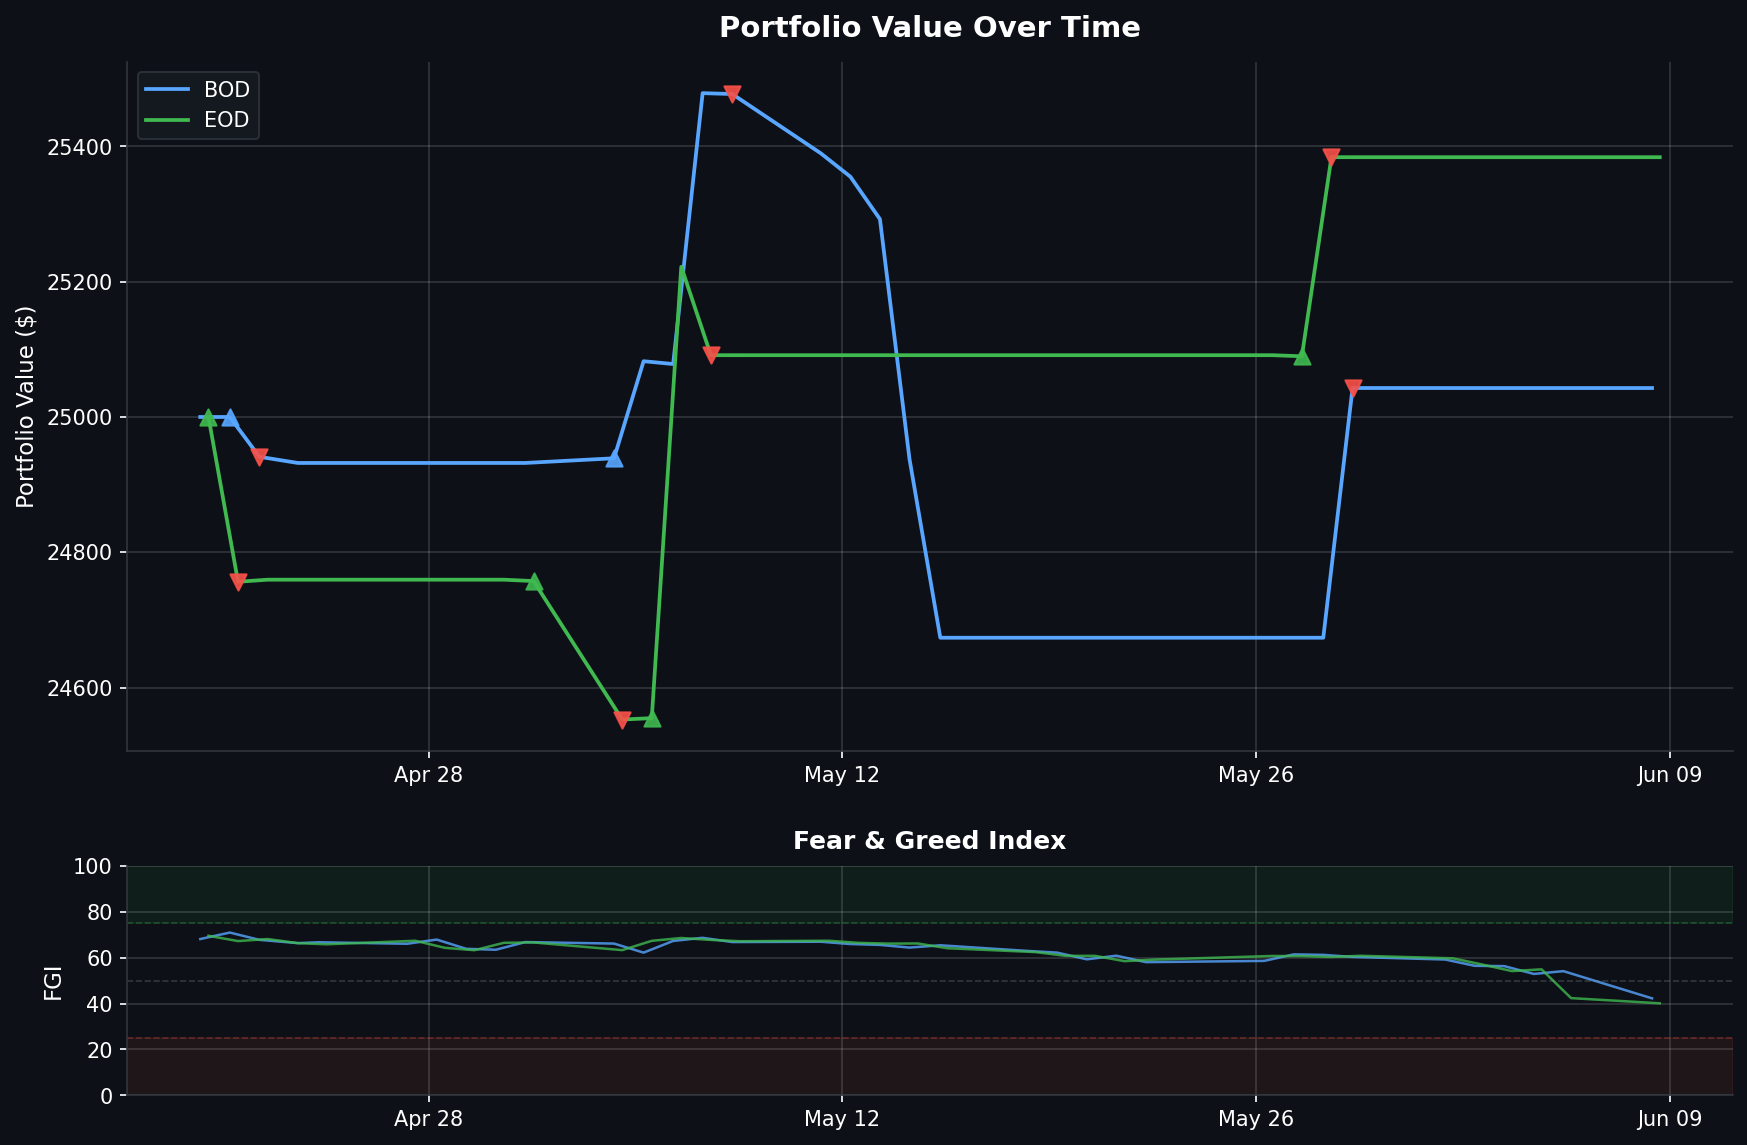
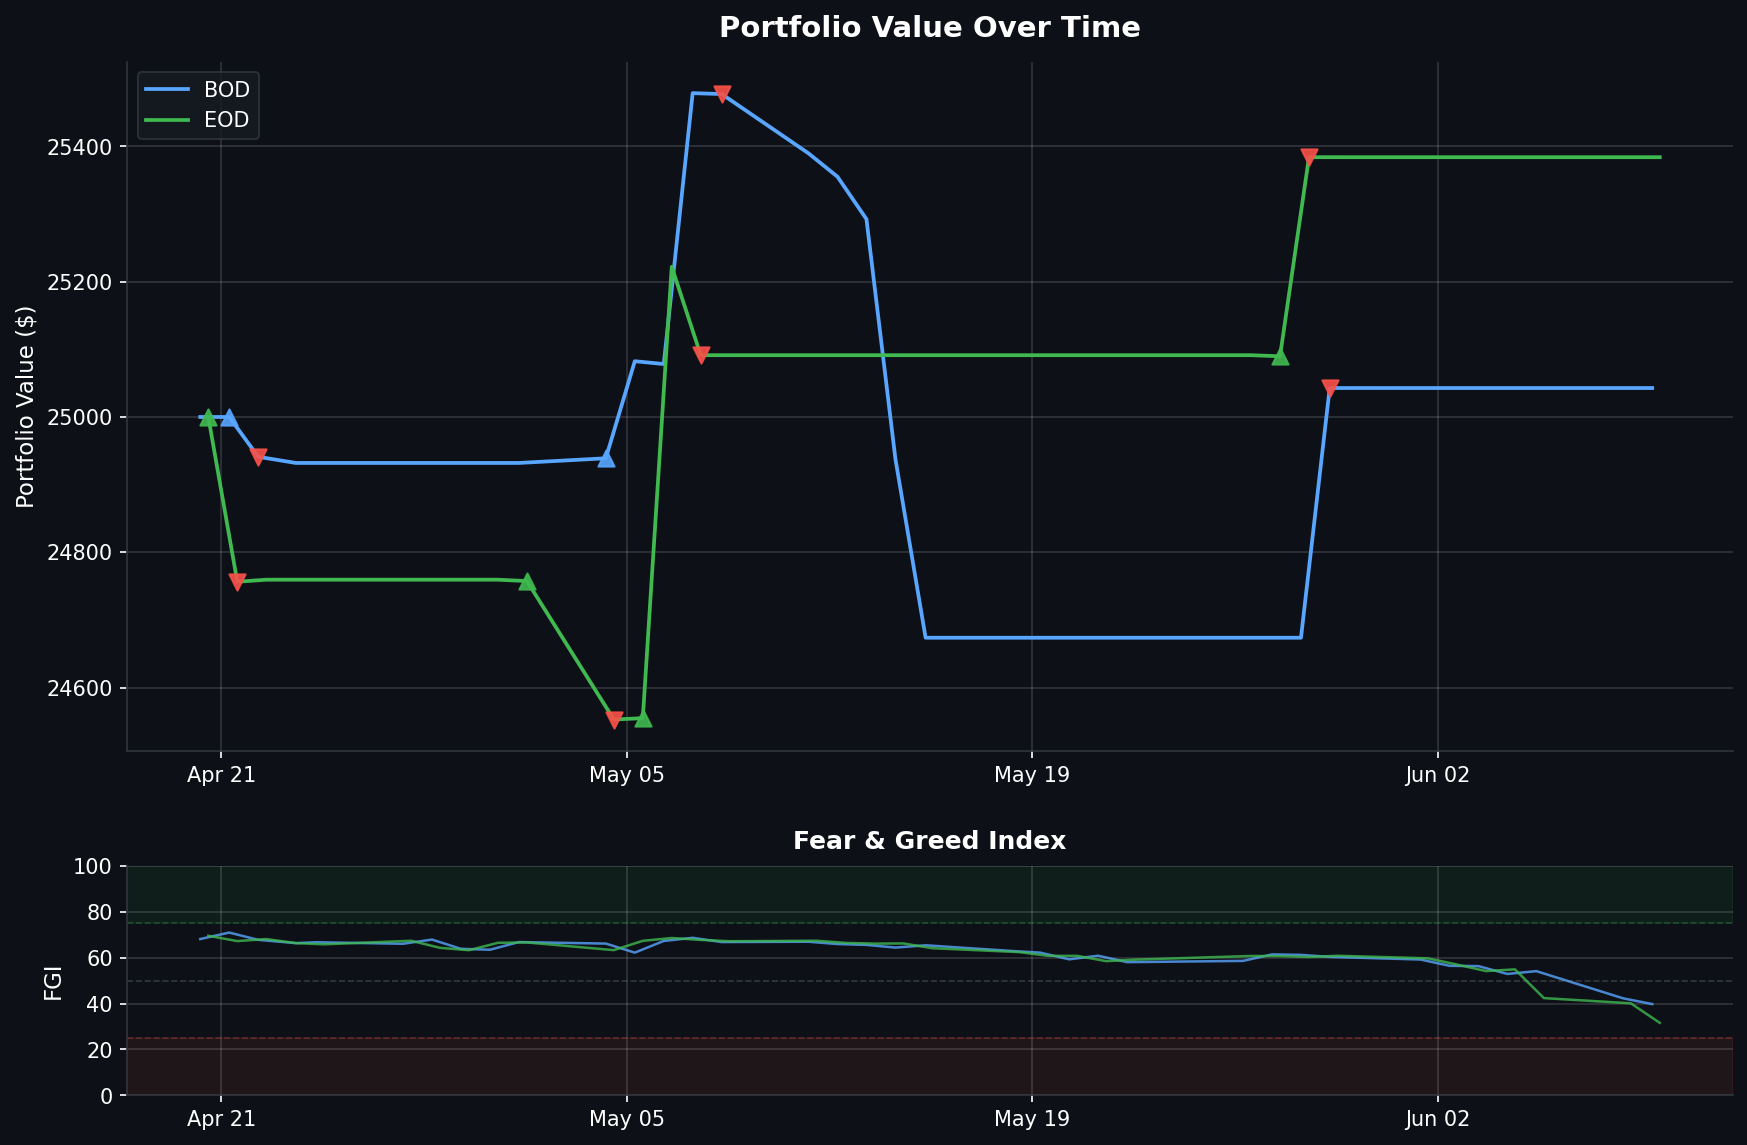
Daily data backup 2026-06-09

diff --git a/README.md b/README.md
@@ -1,6 +1,6 @@
 # Fear & Greed Index Trading Bot
 
-> Dashboard auto-updated daily at market close | Last update: **2026-06-08 13:30 PST**
+> Dashboard auto-updated daily at market close | Last update: **2026-06-09 13:30 PST**
 
 ![Portfolio Performance](assets/portfolio_chart.png)
 
@@ -12,12 +12,12 @@
 |--------|-------|
 | Portfolio Value | **$25,042.81** |
 | Buying Power | $100,171.24 |
-| Current FGI | 42.26 |
+| Current FGI | 39.77 |
 | Position | FLAT |
 | Total P&L | **$+995** |
 | Win Rate | 50% (1W / 1L) |
 | Total Round Trips | 2 |
-| Last Signal | NO_ACTION @ 2026-06-08 09:35 |
+| Last Signal | NO_ACTION @ 2026-06-09 09:35 |
 
 <details>
 <summary>Trade History (2 trades)</summary>
@@ -34,11 +34,11 @@
 
 | Time | Action | Price | FGI | Momentum | Velocity | Volatility | Reason |
 |------|--------|-------|-----|----------|----------|------------|--------|
+| 06-09 09:35 | NO_ACTION | $743.88 | 39.77 | -5.61 | -4.37 | 0.55 | Insufficient momentum/velocity for entry |
 | 06-08 09:35 | NO_ACTION | $742.03 | 42.26 | -7.49 | -4.68 | 0.55 | Insufficient momentum/velocity for entry |
 | 06-05 09:35 | NO_ACTION | $752.43 | 54.11 | -0.32 | -0.77 | 0.55 | Insufficient momentum/velocity for entry |
 | 06-04 09:35 | NO_ACTION | $752.55 | 52.89 | -2.31 | -2.09 | 0.55 | Insufficient momentum/velocity for entry |
 | 06-03 09:35 | NO_ACTION | $758.44 | 56.29 | -1.01 | -1.34 | 0.55 | Insufficient momentum/velocity for entry |
-| 06-02 09:35 | NO_ACTION | $757.46 | 56.43 | -2.21 | -1.59 | 0.55 | Insufficient momentum/velocity for entry |
 
 </details>
 
@@ -50,12 +50,12 @@
 |--------|-------|
 | Portfolio Value | **$25,384.10** |
 | Buying Power | $101,536.40 |
-| Current FGI | 40.11 |
+| Current FGI | 31.6 |
 | Position | FLAT |
 | Total P&L | **$+302** |
 | Win Rate | 50% (2W / 2L) |
 | Total Round Trips | 4 |
-| Last Signal | NO_ACTION @ 2026-06-08 15:50 |
+| Last Signal | NO_ACTION @ 2026-06-09 15:50 |
 
 <details>
 <summary>Trade History (4 trades)</summary>
@@ -74,11 +74,11 @@
 
 | Time | Action | Price | FGI | Momentum | Velocity | Volatility | Reason |
 |------|--------|-------|-----|----------|----------|------------|--------|
+| 06-09 15:50 | NO_ACTION | $733.51 | 31.6 | -6.43 | -7.76 | 0.55 | Insufficient momentum/velocity for entry |
 | 06-08 15:50 | NO_ACTION | $739.67 | 40.11 | -5.68 | -4.68 | 0.55 | Insufficient momentum/velocity for entry |
 | 06-05 15:50 | NO_ACTION | $738.68 | 42.37 | -8.10 | -4.87 | 0.55 | Insufficient momentum/velocity for entry |
 | 06-04 15:50 | NO_ACTION | $757.84 | 54.89 | -0.44 | -1.60 | 0.55 | Insufficient momentum/velocity for entry |
 | 06-03 15:50 | NO_ACTION | $754.62 | 54.14 | -2.79 | -2.22 | 0.55 | Insufficient momentum/velocity for entry |
-| 06-02 15:50 | NO_ACTION | $759.46 | 56.97 | -2.18 | -1.11 | 0.55 | Insufficient momentum/velocity for entry |
 
 </details>
 
